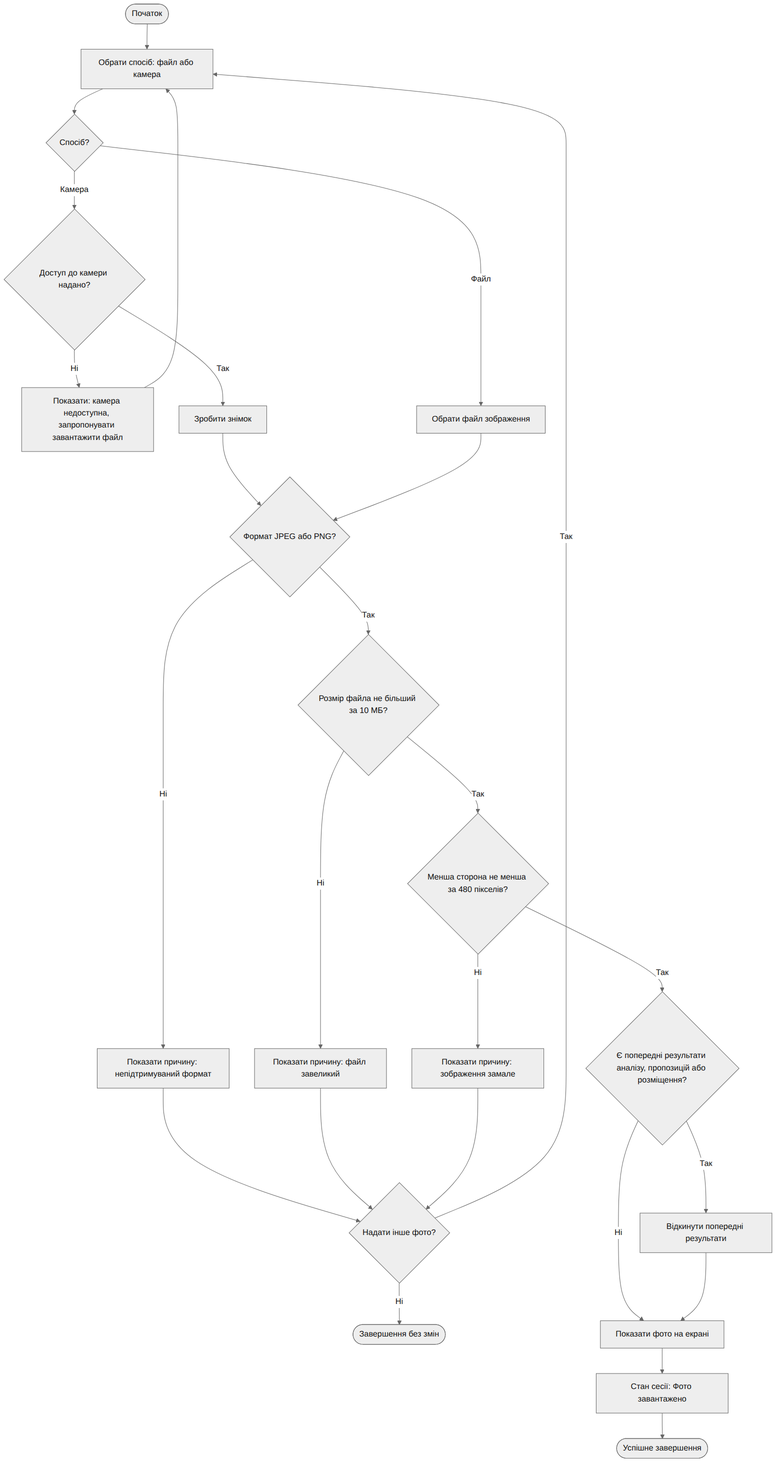
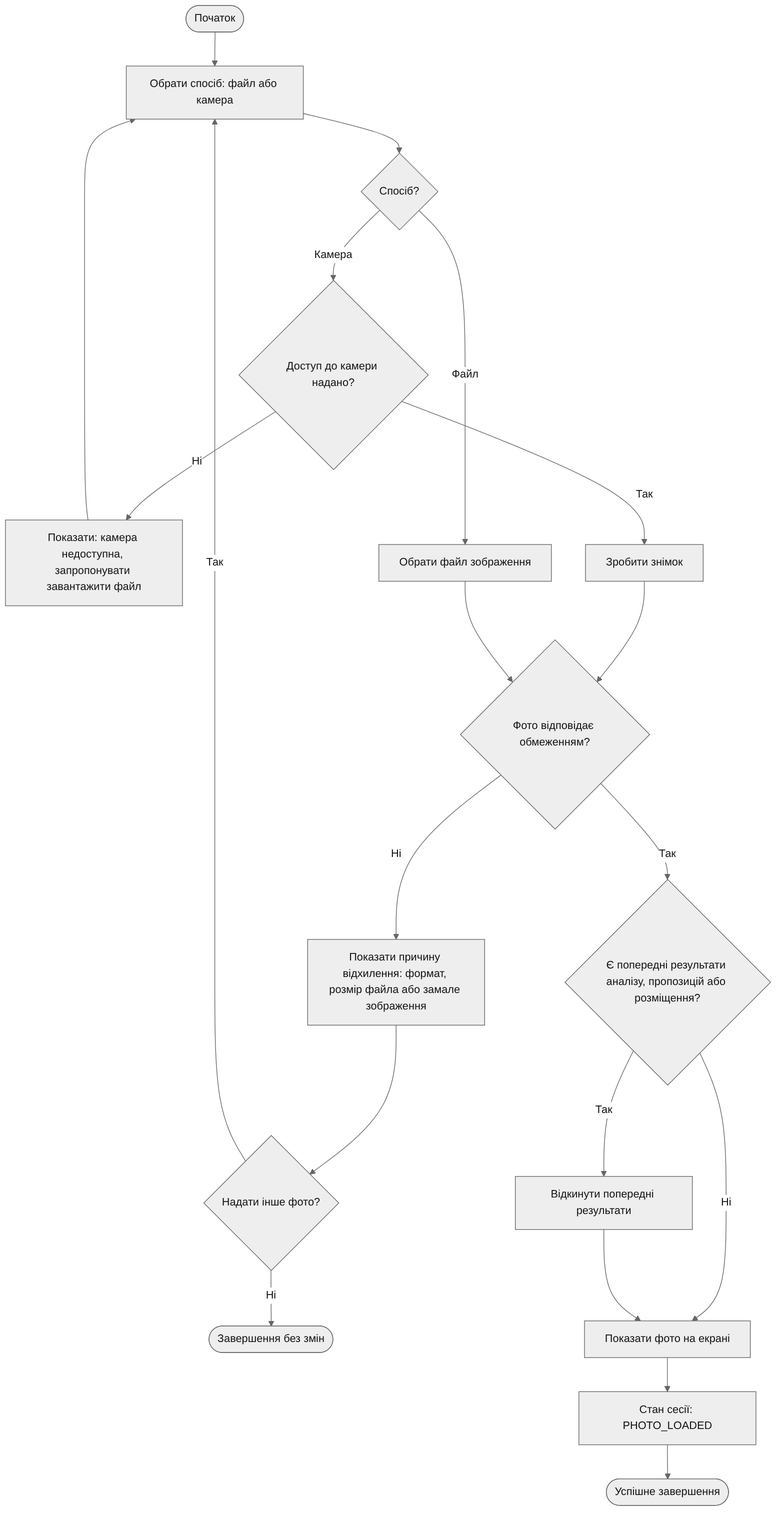
docs: rework activity-uc-01 diagram and sync requirements

diff --git a/docs/use-cases.md b/docs/use-cases.md
@@ -4,7 +4,7 @@
 
 | UC | Ціль користувача | Пов'язані вимоги | Відповідальний | Специфікація |
 |----|------------------|------------------|----------------|--------------|
-| UC-01 | Завантажити фото приміщення | FR-01, FR-02, FR-13, NFR-04 | Блонський Іван | [нижче](#uc-01-завантажити-фото-приміщення) · [Activity Diagram](../model/activity-uc-01.md) |
+| UC-01 | Завантажити фото приміщення | FR-01, FR-13, NFR-04, NFR-06 | Блонський Іван | [нижче](#uc-01-завантажити-фото-приміщення) · [Activity Diagram](../model/activity-uc-01.md) |
 | **UC-02** | **Проаналізувати фото приміщення** | FR-03, FR-04, FR-05, NFR-01, NFR-04 | **Фріз Богдан** | [нижче](#uc-02-проаналізувати-фото-приміщення) · [Activity Diagram](../model/activity-uc-02.md) |
 | UC-03 | Отримати пропозиції предметів | FR-06, FR-07, FR-12, NFR-05 | Онищук Дмитро | [нижче](#uc-03-отримати-пропозиції-предметів) · [Activity Diagram](../model/activity-uc-03.md) |
 | UC-04 | Розмістити предмет на фото й зберегти результат | FR-08, FR-09, FR-10, FR-11, FR-13, NFR-02 | Семенюта Іван | [нижче](#uc-04-розмістити-предмет-на-фото-й-зберегти-результат) · [Activity Diagram](../model/activity-uc-04.md) |
@@ -20,11 +20,11 @@
 | **Актори** | Основний: Користувач. |
 | **Тригер** | Користувач починає нову сесію або вирішує замінити поточне фото. |
 | **Передумови** | Застосунок запущено. Для зйомки потрібен доступ до камери пристрою. |
-| **Основний успішний сценарій** | 1. Користувач обирає спосіб надання фото: файл або камера.<br>2. Користувач обирає файл або робить знімок (FR-01).<br>3. Система перевіряє формат (JPEG або PNG), розмір файла (не більше 10 МБ) і меншу сторону зображення (не менше 480 пікселів) (FR-02).<br>4. Система показує фото на екрані.<br>5. Система переводить сесію в стан `PHOTO_LOADED`. Сценарій завершено. |
-| **Альтернативні потоки** | **A1. Є попередні результати (крок 4).** Якщо в сесії вже були аналіз, пропозиції чи розміщення, система відкидає їх (FR-13) і продовжує з кроку 4.<br>**A2. Фото не відповідає вимогам (крок 3).** Система показує причину (формат, розмір файла або замале зображення) і пропонує надати інше фото. Якщо Користувач погоджується — повернення до кроку 1, інакше сценарій завершується без змін.<br>**A3. Камера недоступна (крок 2).** Система повідомляє, що доступу до камери немає, і пропонує завантажити файл; повернення до кроку 1.<br>**A4. Користувач відмовляється надати інше фото (у A2).** Сценарій завершується без змін. |
+| **Основний успішний сценарій** | 1. Користувач обирає спосіб надання фото: файл або камера.<br>2. Користувач обирає файл або робить знімок (FR-01).<br>3. Система перевіряє формат (JPEG або PNG), розмір файла (не більше 10 МБ) і меншу сторону зображення (не менше 480 пікселів) (NFR-06).<br>4. Система показує фото на екрані.<br>5. Система переводить сесію в стан `PHOTO_LOADED`. Сценарій завершено. |
+| **Альтернативні потоки** | **A1. Є попередні результати (крок 4).** Якщо в сесії вже були аналіз, пропозиції чи розміщення, система відкидає їх (FR-13) і продовжує з кроку 4.<br>**A2. Фото не відповідає обмеженням NFR-06 (крок 3).** Система показує причину (формат, розмір файла або замале зображення) і пропонує надати інше фото. Якщо Користувач погоджується — повернення до кроку 1, інакше сценарій завершується без змін.<br>**A3. Камера недоступна (крок 2).** Система повідомляє, що доступу до камери немає, і пропонує завантажити файл; повернення до кроку 1.<br>**A4. Користувач відмовляється надати інше фото (у A2).** Сценарій завершується без змін. |
 | **Винятковий потік** | Немає окремого винятку: усі відхилення обробляються як A2 і A3. |
 | **Постумови** | **Успіх:** у сесії є коректне фото, стан `PHOTO_LOADED`, попередні результати відсутні; фото не передано стороннім сервісам (NFR-04).<br>**Невдача:** стан сесії не змінився. |
-| **Пов'язані вимоги** | FR-01, FR-02, FR-13, NFR-04. Критерії приймання: AC-01, AC-02, AC-13, AC-17. |
+| **Пов'язані вимоги** | FR-01, FR-13, NFR-04, NFR-06. Критерії приймання: AC-01, AC-02, AC-13, AC-17. |
 | **Діаграма** | [Activity Diagram UC-01](../model/activity-uc-01.md) |
 
 ---
@@ -37,8 +37,8 @@
 | **Мета** | Отримати домінантну колірну гаму та рівень освітленості приміщення за наданим фото, щоб система могла добрати придатні предмети. |
 | **Актори** | Основний: Користувач. |
 | **Тригер** | Користувач надав коректне фото (UC-01) і запускає аналіз; або аналіз запускається як частина UC-03 (`«include»`). |
-| **Передумови** | 1. Створено сесію. 2. Фото завантажено й пройшло перевірку формату та розміру (UC-01, FR-02); сесія у стані `PHOTO_LOADED`. Без виконання передумов аналіз запустити неможливо (кнопка «Аналіз» неактивна), тому окремо в сценарії вони не перевіряються. |
-| **Основний успішний сценарій** | 1. Користувач запускає аналіз фото.<br>2. Система блокує заміну фото на час аналізу (FR-13) і показує індикатор «Аналіз…».<br>3. Система визначає домінантну колірну гаму: 3–5 кольорів із часткою кожного (FR-03).<br>4. Система визначає рівень освітленості: «темне», «помірне» або «яскраве» (FR-04).<br>5. Система зберігає результат у сесії та переводить її у стан `ANALYZED`; заміна фото знову доступна.<br>6. Система показує палітру й рівень освітленості (FR-05).<br>7. Користувач переглядає результат і переходить до пропозицій (UC-03). Сценарій завершено. |
+| **Передумови** | 1. Створено сесію. 2. Фото завантажено й пройшло перевірку формату та розміру (UC-01, NFR-06); сесія у стані `PHOTO_LOADED`. Без виконання передумов аналіз запустити неможливо (кнопка «Аналіз» неактивна), тому окремо в сценарії вони не перевіряються. |
+| **Основний успішний сценарій** | 1. Користувач запускає аналіз фото.<br>2. Система блокує заміну фото на час аналізу (FR-13) і показує індикатор «Аналіз…».<br>3. Система визначає домінантну колірну гаму: 3–5 кольорів із часткою кожного (FR-03).<br>4. Система визначає рівень освітленості: «темне», «помірне» або «яскраве» (FR-04).<br>5. Система зберігає результат у сесії та переводить її у стан `ANALYZED`.<br>6. Система показує палітру й рівень освітленості (FR-05).<br>7. Користувач переглядає результат і переходить до пропозицій (UC-03). Сценарій завершено. |
 | **Альтернативні потоки** | **A1. Недостатньо даних для надійного визначення (кроки 3–4).** Якщо понад 95 % пікселів майже чорні або майже білі, система повідомляє, що за цим фото гаму й освітленість визначити неможливо, і пропонує надати інше фото (UC-01). Результат не зберігається, стан `PHOTO_LOADED`. |
 | **Винятковий потік** | **E1. Помилка обробки або перевищено час (кроки 3–4, NFR-01: не довше 30 с).** Система повідомляє про помилку, не зберігає часткового результату й пропонує повторити аналіз. Сесія залишається у стані `PHOTO_LOADED`. Якщо Користувач погоджується — повернення до кроку 1, інакше сценарій завершується. |
 | **Постумови** | **Успіх:** у сесії збережено гаму (3–5 кольорів) та рівень освітленості; стан `ANALYZED`; фото не передано стороннім сервісам (NFR-04).<br>**Невдача:** результат аналізу відсутній, стан `PHOTO_LOADED`. |

diff --git a/docs/requirements.md b/docs/requirements.md
@@ -17,7 +17,7 @@
 | ID | Вимога | Критерій приймання |
 |----|--------|--------------------|
 | FR-01 | Система повинна дозволяти Користувачу надати фото приміщення: завантажити файл або зробити знімок камерою пристрою. | **AC-01:** після надання коректного фото воно відображається на екрані, а сесія готова до аналізу. |
-| FR-02 | Система повинна відхиляти зображення, що не відповідає вимогам до вхідного фото (формат JPEG або PNG, розмір файла не більший за 10 МБ, менша сторона не менша за 480 пікселів), і повідомляти причину відхилення. | **AC-02:** файл іншого формату, завеликий або замалий не приймається; Користувач бачить повідомлення з причиною і може надати інше фото. |
+| FR-02 | *Вилучено: обмеження на вхідне фото перенесено до нефункціональних вимог (NFR-06). Ідентифікатор не використовується повторно.* | — |
 | FR-03 | Система повинна визначати за фото домінантну колірну гаму: від 3 до 5 основних кольорів із часткою кожного у зображенні. | **AC-03:** для коректного фото результат містить 3–5 кольорів, сума часток дорівнює 100 % (±1 %); на контрольному наборі з 5 фото домінантний колір збігається з експертною оцінкою хоча б для 4 фото. |
 | FR-04 | Система повинна визначати рівень освітленості приміщення за фото: «темне», «помірне» або «яскраве». | **AC-04:** для кожного коректного фото повертається рівно одне значення; на контрольному наборі з 6 фото (по 2 на рівень) рівень збігається з експертною оцінкою хоча б для 5 фото. |
 | FR-05 | Система повинна показувати Користувачу результат аналізу: палітру домінантних кольорів і рівень освітленості. | **AC-05:** після успішного аналізу на екрані видно палітру та рівень освітленості до переходу до пропозицій. |
@@ -39,6 +39,7 @@
 | NFR-03 | **Зручність.** Користувач без інструкції проходить повний сценарій v1.0 не довше ніж за 5 хв. | **AC-16:** тест на щонайменше 3 користувачах: усі завершили сценарій ≤ 5 хв. |
 | NFR-04 | **Приватність.** Фото Користувача не передається стороннім сервісам і не зберігається після завершення сесії, крім результату, який Користувач явно зберіг (FR-11). | **AC-17:** після завершення сесії вхідне фото відсутнє в сховищі системи; під час роботи немає запитів із фото до зовнішніх адрес. |
 | NFR-05 | **Ліцензійна чистота.** Для кожного зображення каталогу зафіксовано джерело й ліцензію, що дозволяє навчальне використання. | **AC-18:** для 100 % позицій каталогу заповнено поле «джерело/ліцензія» (FR-12). |
+| NFR-06 | **Обмеження вхідного фото.** Система приймає фото (FR-01) лише у форматі JPEG або PNG, розміром файла не більше 10 МБ і з меншою стороною не менше 480 пікселів; фото, що не відповідає обмеженням, не приймається, а Користувачу показується причина відхилення. | **AC-02:** файл іншого формату, завеликий або замалий не приймається; Користувач бачить повідомлення з причиною і може надати інше фото. |
 
 ## 4. Правила добору (початкова версія)
 

diff --git a/model/activity-uc-01.md b/model/activity-uc-01.md
@@ -1,8 +1,8 @@
 # Activity Diagram — UC-01. Завантажити фото приміщення
 
 **Інженерне питання:** як користувач надає фото і які перевірки та альтернативи є до переходу до аналізу.
-**Пов'язані вимоги:** FR-01, FR-02, FR-13, NFR-04.
-**Відповідність потокам специфікації** ([use-cases.md](../docs/use-cases.md)): A1 — гілка «Так» рішення «Є попередні результати?»; A2 — гілки «Ні» рішень щодо формату, розміру й розмірів зображення; A3 — гілка «Ні» рішення «Доступ до камери надано?»; A4 — гілка «Ні» рішення «Надати інше фото?».
+**Пов'язані вимоги:** FR-01, FR-13, NFR-04, NFR-06.
+**Відповідність потокам специфікації** ([use-cases.md](../docs/use-cases.md)): A1 — гілка «Так» рішення «Є попередні результати?»; A2 — гілка «Ні» рішення «Фото відповідає обмеженням?» (формат, розмір файла, розмір зображення — NFR-06); A3 — гілка «Ні» рішення «Доступ до камери надано?»; A4 — гілка «Ні» рішення «Надати інше фото?».
 
 ```mermaid
 %%{init: {"theme":"base","themeVariables":{"fontFamily":"Liberation Sans, Arial, sans-serif","primaryColor":"#eeeeee","primaryBorderColor":"#666666","primaryTextColor":"#111111","lineColor":"#666666","edgeLabelBackground":"#ffffff"},"flowchart":{"curve":"basis","htmlLabels":true}}}%%
@@ -14,22 +14,16 @@ flowchart TD
     M1 --> A1
     D2 -- Так --> A2[Зробити знімок]
     D1 -- Файл --> A3[Обрати файл зображення]
-    A2 --> D3{Формат JPEG або PNG?}
+    A2 --> D3{Фото відповідає обмеженням?}
     A3 --> D3
-    D3 -- Ні --> M2[Показати причину: непідтримуваний формат]
-    D3 -- Так --> D4{Розмір файла не більший за 10 МБ?}
-    D4 -- Ні --> M3[Показати причину: файл завеликий]
-    D4 -- Так --> D5{Менша сторона не менша за 480 пікселів?}
-    D5 -- Ні --> M4[Показати причину: зображення замале]
+    D3 -- Ні --> M2[Показати причину відхилення: формат, розмір файла або замале зображення]
     M2 --> D6{Надати інше фото?}
-    M3 --> D6
-    M4 --> D6
     D6 -- Так --> A1
     D6 -- Ні --> E1([Завершення без змін])
-    D5 -- Так --> D7{Є попередні результати аналізу, пропозицій або розміщення?}
+    D3 -- Так --> D7{Є попередні результати аналізу, пропозицій або розміщення?}
     D7 -- Так --> A4[Відкинути попередні результати]
     D7 -- Ні --> A5[Показати фото на екрані]
     A4 --> A5
-    A5 --> A6[Стан сесії: Фото завантажено]
+    A5 --> A6[Стан сесії: PHOTO_LOADED]
     A6 --> E2([Успішне завершення])
 ```

diff --git a/docs/traceability.md b/docs/traceability.md
@@ -5,7 +5,6 @@
 | Вимога | Use Case | Критерій приймання | Проєктний артефакт | Перевірка |
 |--------|----------|--------------------|--------------------|-----------|
 | FR-01 Надати фото | UC-01 | AC-01 | [Activity UC-01](../model/activity-uc-01.md); Use Case Diagram; Class `Photo`; State `EMPTY → PHOTO_LOADED` | ЛР №4 |
-| FR-02 Відхилити некоректне фото | UC-01 (A2) | AC-02 | Class `Photo.validate()` | ЛР №4 |
 | FR-03 Колірна гама | UC-02 | AC-03 | [Activity UC-02](../model/activity-uc-02.md); Class `AnalysisResult`, `DominantColor` | ЛР №4 |
 | FR-04 Рівень освітленості | UC-02 | AC-04 | Activity UC-02; Class `AnalysisResult`, `LightingLevel` | ЛР №4 |
 | FR-05 Показ результату аналізу | UC-02 | AC-05 | Activity UC-02; State `ANALYZED` | ЛР №4 |
@@ -22,6 +21,9 @@
 | NFR-03 Сценарій ≤ 5 хв | UC-01…UC-04 | AC-16 | Use Case Diagram | Тест на 3+ користувачах, ЛР №4 |
 | NFR-04 Приватність | UC-02 | AC-17 | Class `Photo` (не зберігається після сесії); Activity UC-02 | ЛР №4 |
 | NFR-05 Ліцензії | UC-03 | AC-18 | Class `CatalogItem.licenseSource` | Перевірка каталогу, ЛР №4 |
+| NFR-06 Обмеження вхідного фото | UC-01 (A2) | AC-02 | [Activity UC-01](../model/activity-uc-01.md) (рішення «Фото відповідає обмеженням?»); Class `Photo.validate()` | ЛР №4 |
+
+**FR-02** вилучено: обмеження на вхідне фото перенесено до NFR-06 (критерій AC-02 збережено).
 
 **Пояснення порожніх клітинок.** У NFR-02 проєктного артефакту немає: вимога стосується поведінки інтерфейсу й перевіряється лише на реалізації, тому в UML-моделі її показувати немає сенсу. Стовпець «Перевірка» заповнюється в ЛР №4.
 

diff --git a/docs/implementation-plan.md b/docs/implementation-plan.md
@@ -6,7 +6,7 @@
 |------|-------|--------------|-----------------------|
 | 1 | Середовище: репозиторій, структура проєкту, вибір бібліотеки обробки зображень | baseline | Порожній застосунок запускається (ЛР №2) |
 | 2 | Каталог: 20–30 позицій, ознаки (тип, колір, освітлення), ліцензії | baseline | FR-12, NFR-05, AC-12, AC-18 |
-| 3 | Завантаження й перевірка фото (UC-01), `Photo`, `DesignSession` | 1 | FR-01, FR-02, FR-13; AC-01, AC-02, AC-13 |
+| 3 | Завантаження й перевірка фото (UC-01), `Photo`, `DesignSession` | 1 | FR-01, FR-13, NFR-06; AC-01, AC-02, AC-13 |
 | 4 | Аналіз фото (UC-02): гама та освітленість | 3 | FR-03…FR-05, NFR-01; AC-03…AC-05, AC-14 |
 | 5 | Добір і показ пропозицій (UC-03), правила R1–R4 | 2, 4 | FR-06, FR-07; AC-06, AC-07; **демонстрація-прототип групі користувачів для калібрування правил** |
 | 6 | Розміщення предмета, переміщення, розмір, збереження (UC-04) | 5 | FR-08…FR-11, NFR-02; AC-08…AC-11, AC-15 |

diff --git a/docs/design.md b/docs/design.md
@@ -14,7 +14,7 @@
 
 **Інженерне питання:** які предметні сутності, атрибути й зв'язки потрібні для v1.0.
 **Що видно:** сесія користувача (`DesignSession`) складається з фото, результату аналізу (3–5 домінантних кольорів і рівень освітленості), 3–4 пропозицій та розміщення предмета. Каталог складається з 20–30 позицій; пропозиція й розміщення посилаються на позицію каталогу. Технічні класи (контролери, DTO) не моделюються.
-**Вимоги:** FR-01…FR-12, NFR-04, NFR-05.
+**Вимоги:** FR-01, FR-03…FR-12, NFR-04, NFR-05, NFR-06.
 
 ![Діаграма класів v1.0](images/class-diagram.png)
 
